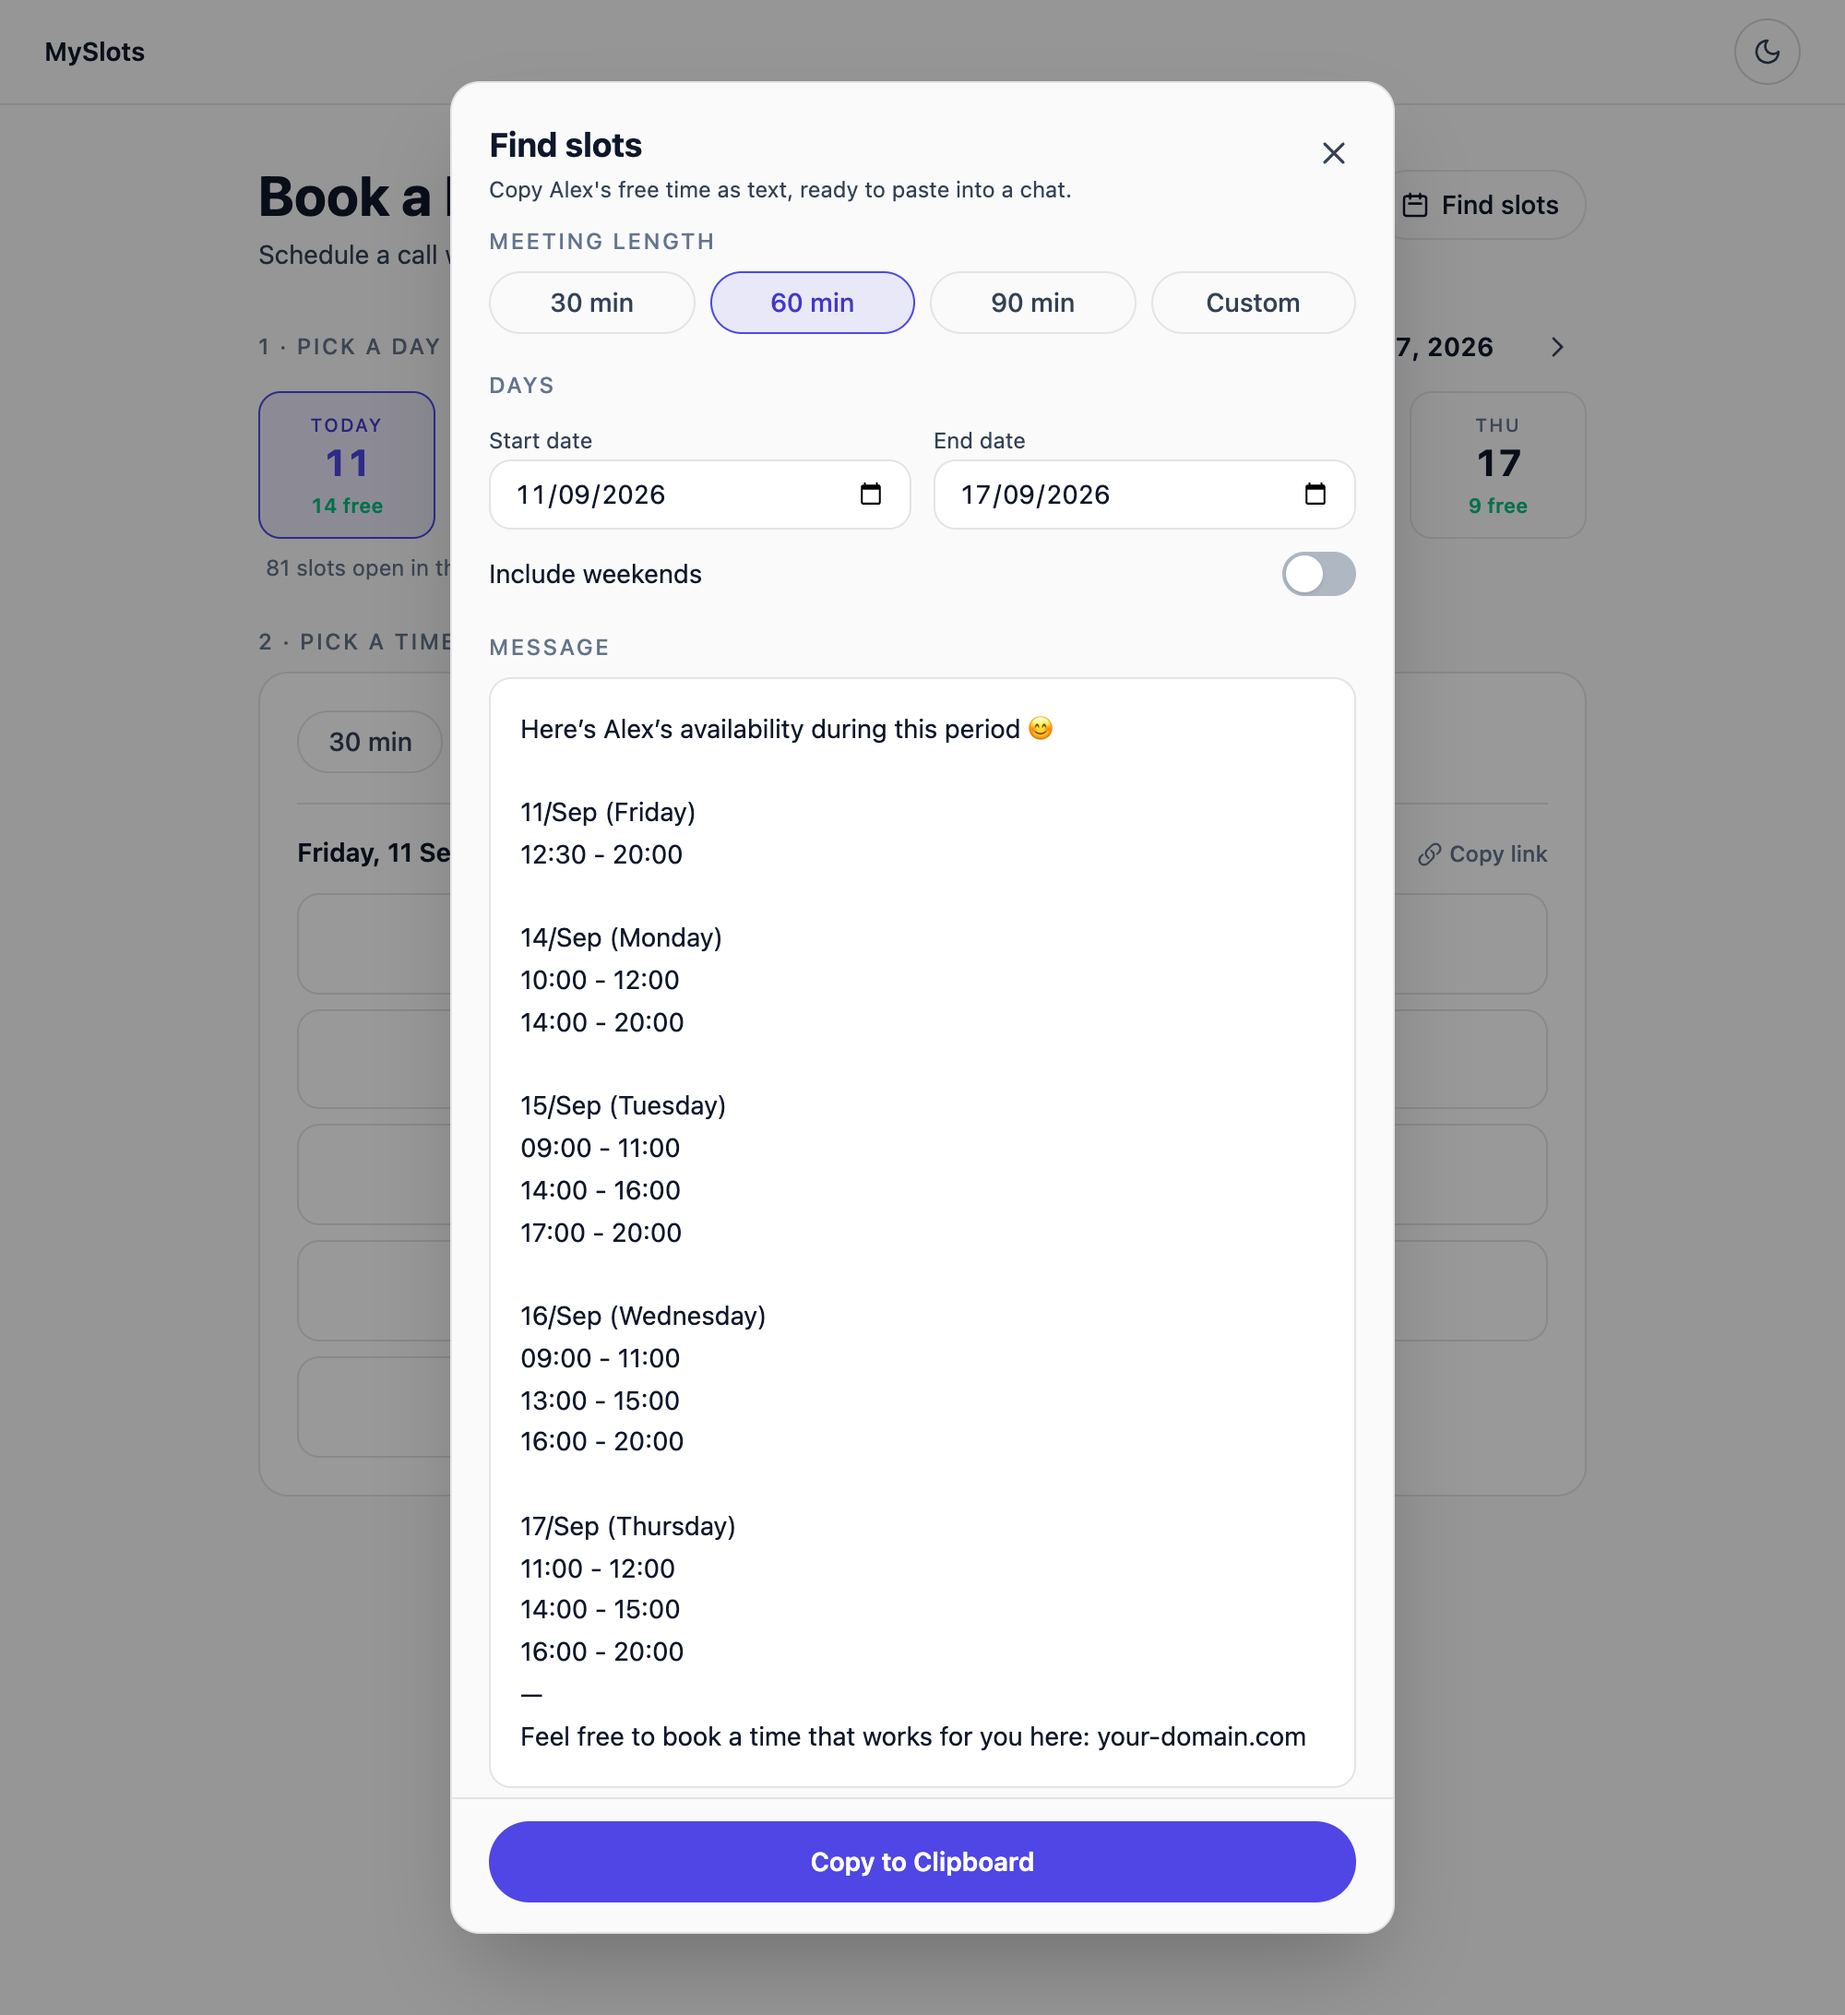
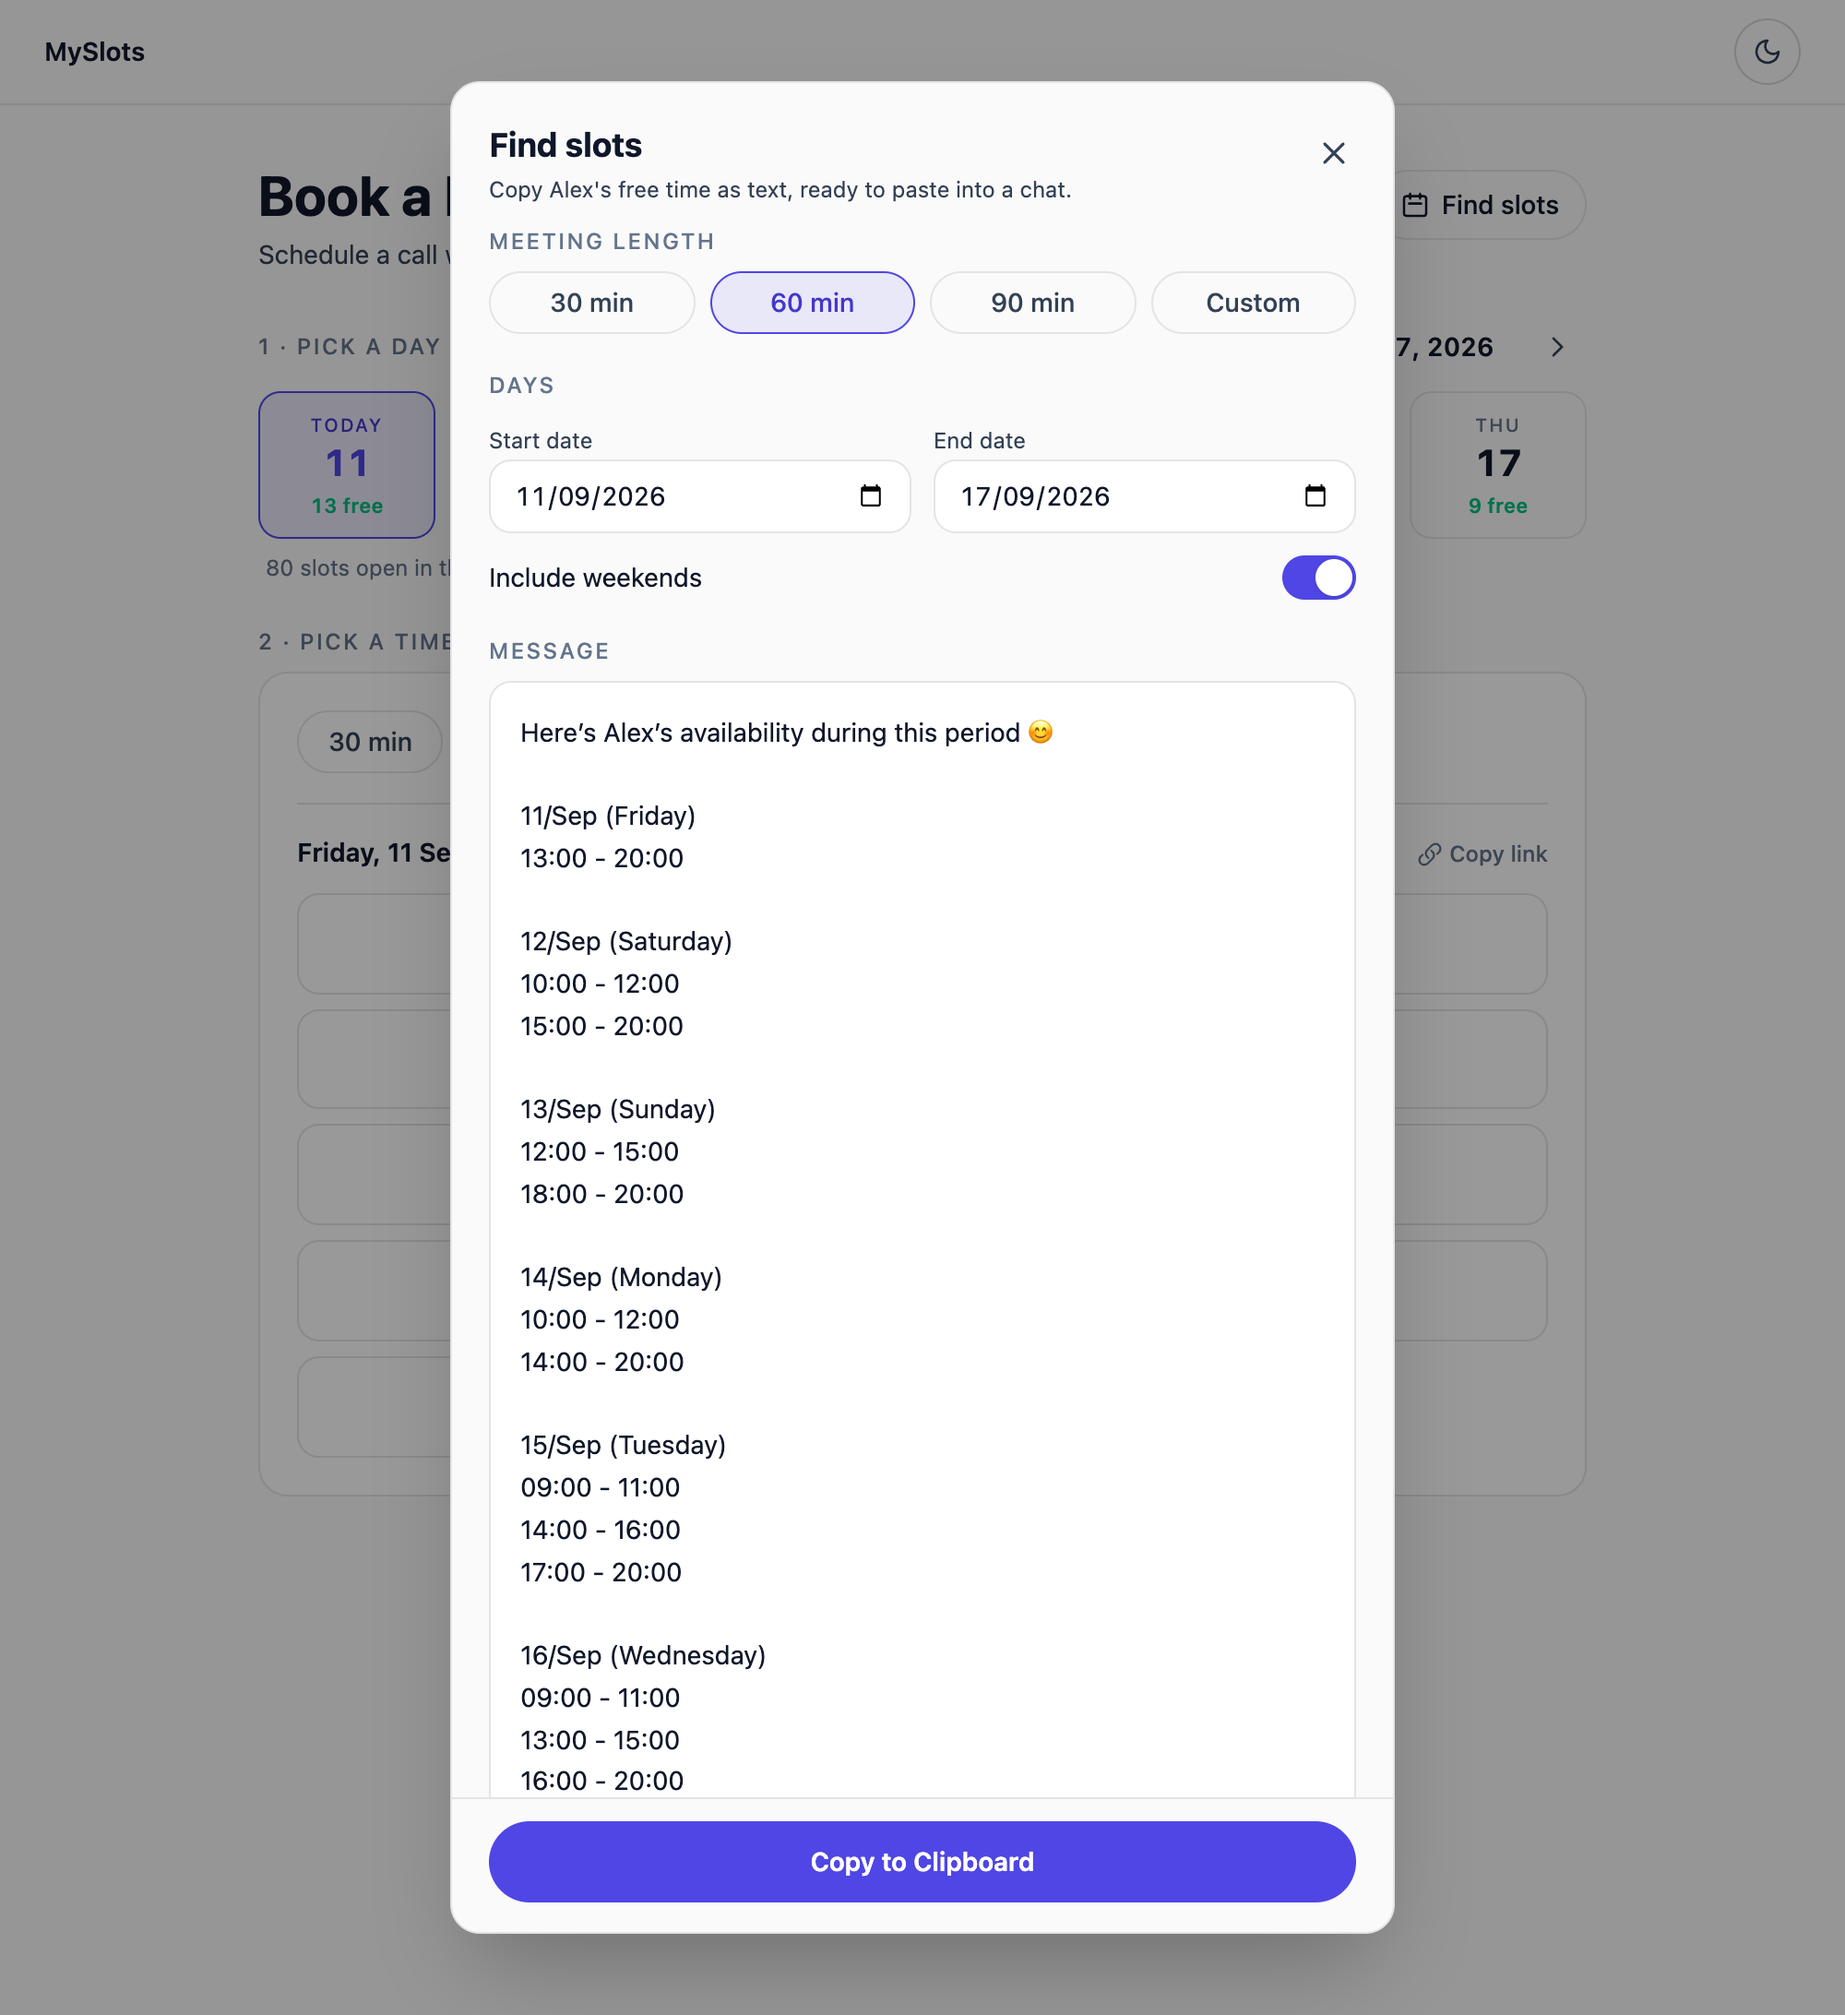
fix: Find slots opens with weekends on, and fits an iPhone
iOS Safari gives a date input an intrinsic width wider than half a phone, so
the start and end fields overlapped and the whole panel scrolled sideways.

Claude-Session: https://claude.ai/code/session_01A2uumXTj8qb7D2z8zzB1Ft

diff --git a/src/app/book/FindSlots.tsx b/src/app/book/FindSlots.tsx
@@ -35,7 +35,7 @@ export function FindSlots({
   const [customMinutes, setCustomMinutes] = useState('45')
   const [from, setFrom] = useState(initialFrom)
   const [to, setTo] = useState(initialTo)
-  const [includeWeekends, setIncludeWeekends] = useState(false)
+  const [includeWeekends, setIncludeWeekends] = useState(true)
   const [result, setResult] = useState<Result | null>(null)
   const [copyState, setCopyState] = useState<'idle' | 'copied' | 'failed'>('idle')
 
@@ -140,7 +140,7 @@ export function FindSlots({
         aria-modal="true"
         aria-labelledby="find-slots-title"
         tabIndex={-1}
-        className="relative w-full sm:max-w-lg max-h-[92dvh] flex flex-col rounded-t-2xl sm:rounded-2xl bg-[var(--color-background)] border border-[var(--color-border)] shadow-2xl focus:outline-none"
+        className="relative w-full min-w-0 sm:max-w-lg max-h-[92dvh] flex flex-col overflow-hidden rounded-t-2xl sm:rounded-2xl bg-[var(--color-background)] border border-[var(--color-border)] shadow-2xl focus:outline-none"
       >
         {/* Header */}
         <div className="flex items-start justify-between gap-4 px-5 pt-5 pb-3">
@@ -162,7 +162,7 @@ export function FindSlots({
           </button>
         </div>
 
-        <div className="flex-1 overflow-y-auto px-5 pb-4 space-y-5">
+        <div className="flex-1 overflow-y-auto overflow-x-hidden px-5 pb-4 space-y-5">
           {/* Meeting length */}
           <fieldset>
             <legend className="text-xs uppercase tracking-widest text-[var(--color-muted)] font-medium mb-2">
@@ -326,7 +326,9 @@ function DateField({
   onChange: (value: string) => void
 }) {
   return (
-    <label className="block space-y-1">
+    // min-w-0 all the way down: iOS Safari gives a date input an intrinsic
+    // width wider than half a phone, which otherwise spills into the next field.
+    <label className="block min-w-0 space-y-1">
       <span className="text-xs text-[var(--color-muted-light)]">{label}</span>
       <input
         type="date"
@@ -334,7 +336,7 @@ function DateField({
         min={min}
         max={max}
         onChange={e => onChange(e.target.value)}
-        className="w-full px-3 py-2 rounded-xl bg-[var(--color-surface)] border border-[var(--color-border)] text-sm text-[var(--color-foreground)] tabular-nums focus:outline-none focus:border-[var(--color-accent)] transition-colors"
+        className="block w-full min-w-0 appearance-none px-3 py-2 min-h-10 rounded-xl bg-[var(--color-surface)] border border-[var(--color-border)] text-sm text-left [&::-webkit-date-and-time-value]:text-left text-[var(--color-foreground)] tabular-nums focus:outline-none focus:border-[var(--color-accent)] transition-colors"
       />
     </label>
   )
